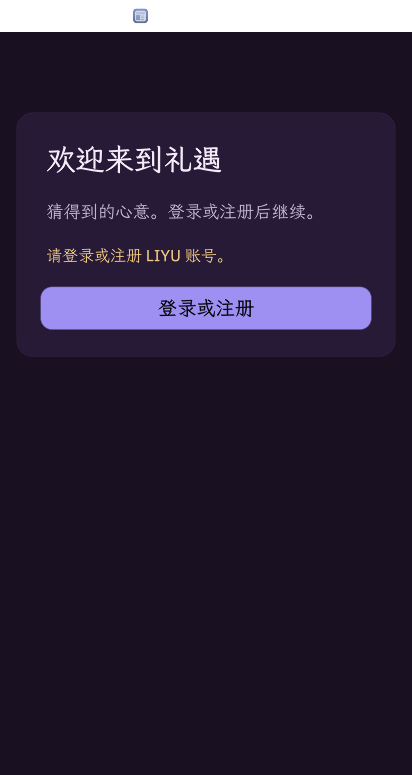
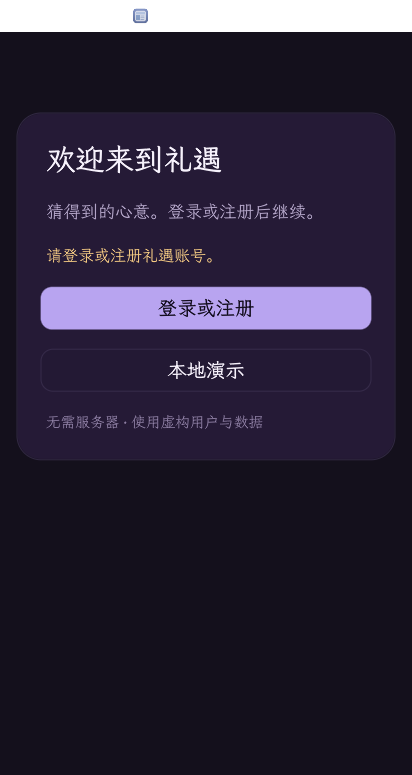
docs: refresh current login and local demo screenshots

diff --git a/README.md b/README.md
@@ -33,11 +33,13 @@ LIYU-MINI 是礼遇的 OctoScript / Splash 小程序，使用标准 HTTPS 直接
 
 页面顶部始终标注「本地演示」。AI 建议是明确标注的固定示例，不调用真实模型；联系方式验证需退出演示后登录真实账号。演示操作仅保存在本次运行的内存中，退出或重新进入会重置，不会写入真实账号的业务数据或替换登录会话。
 
-包内只保留 8 张轻量商品插画，商品图合计约 137 KB；应用包总大小约 1.44 MB，低于 8 MB。可重复验证资源和演示流程：
+包内只保留 8 张轻量商品插画，商品图合计约 137 KB；应用包总大小约 1.53 MB，低于 8 MB。可重复验证资源和演示流程：
 
 ```sh
 python3 scripts/check-local-demo.py
 ```
+
+![本地演示：虚构数据和内置商品图片](screenshots/local-demo.png)
 
 ## 演示视频
 
